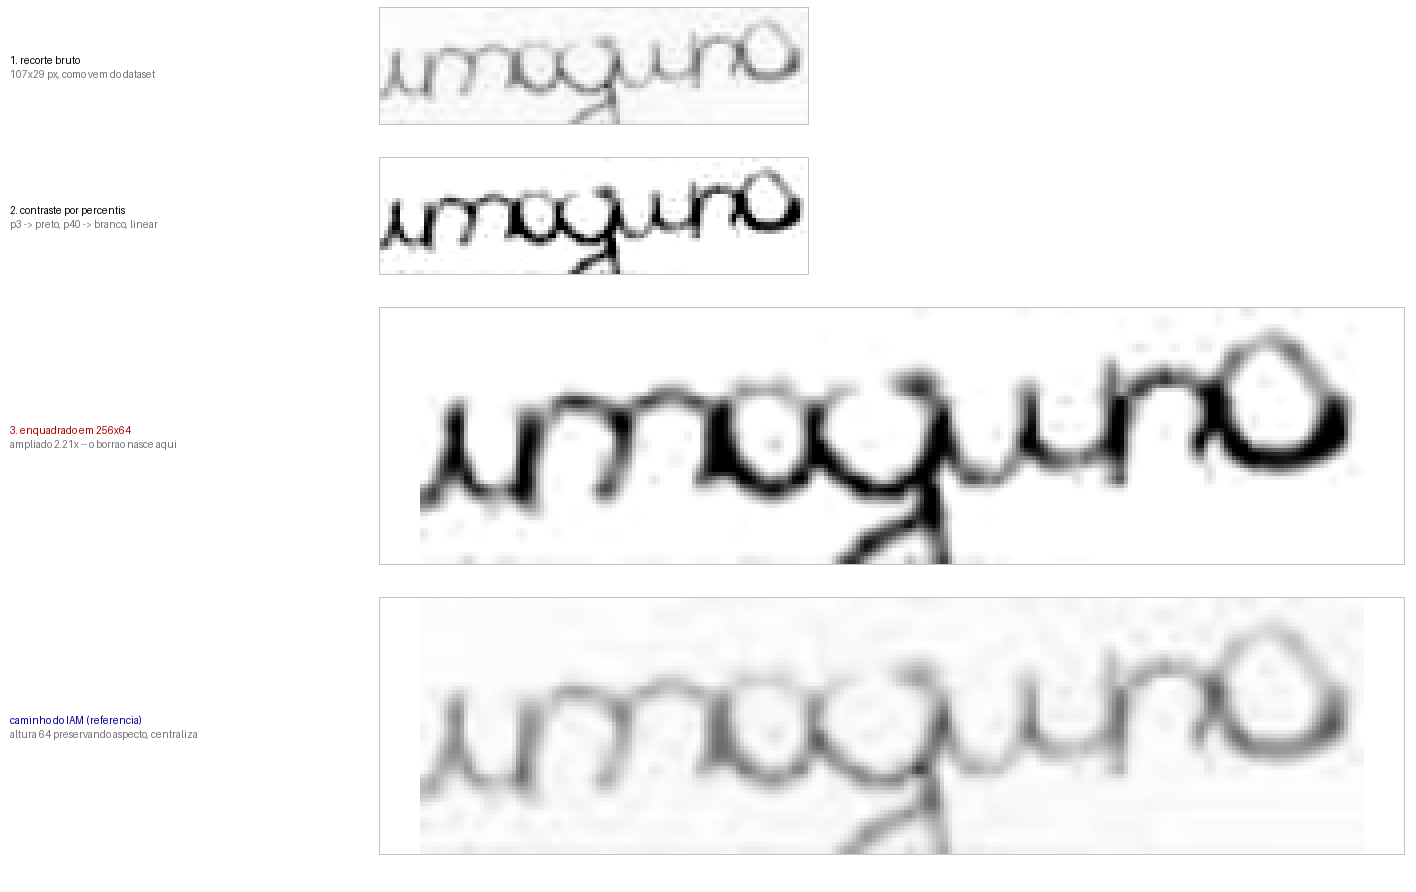
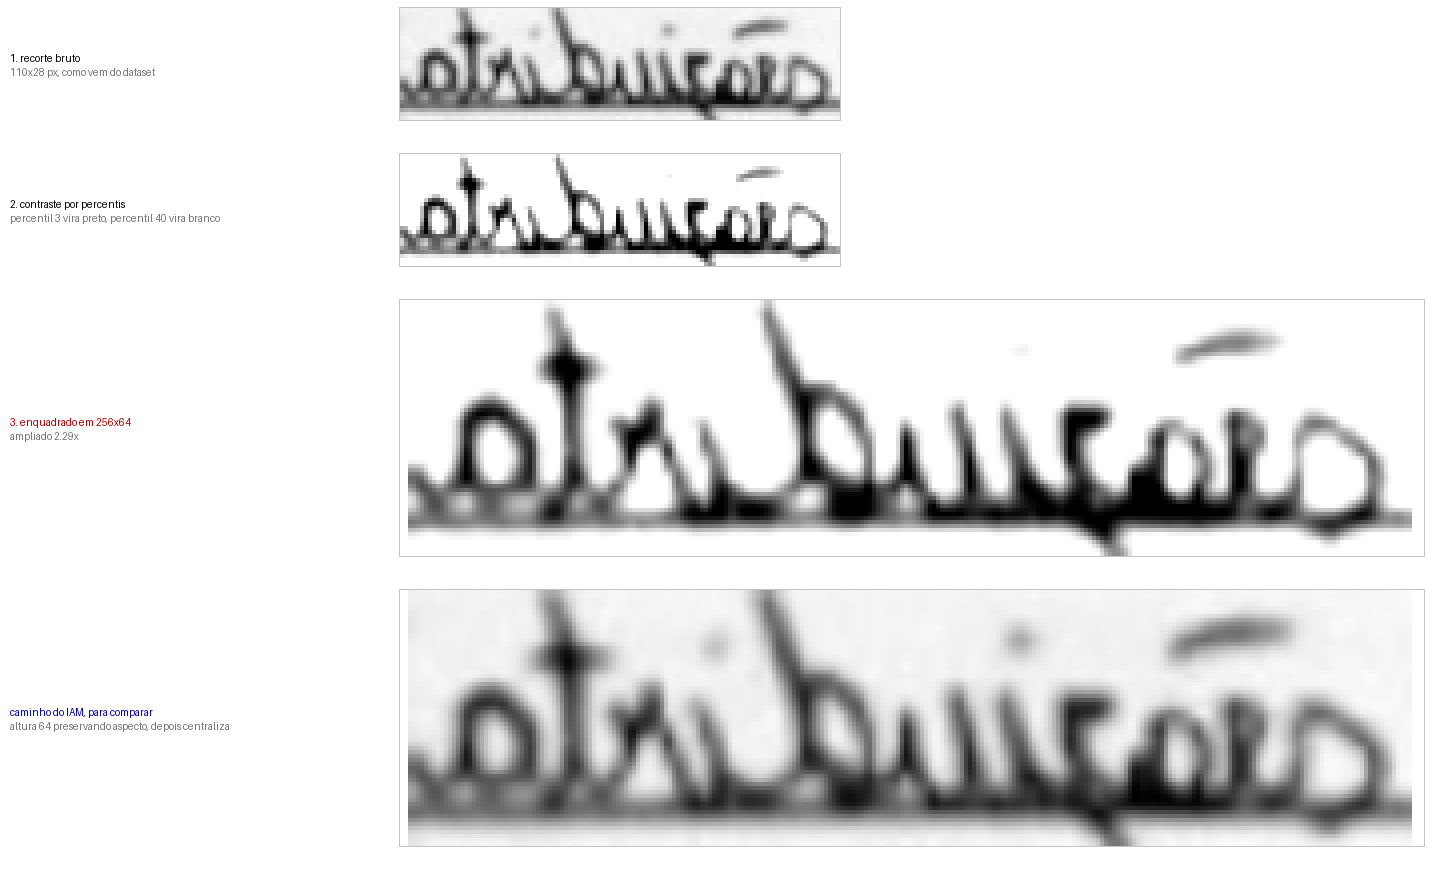
Refaz as figuras com um recorte de fundo escuro
O exemplo anterior tinha fundo em 245, quase branco, entao a normalizacao de
contraste quase nao mudava nada e o histograma saia todo espremido na borda.
O novo recorte tem fundo em 180 e tinta em 44, com 37% dos pixels na faixa
esticada, e contem cedilha e til. Altura 28 px, ampliada 2,29x.

Acrescenta docs/figuras/gerar_figuras.py, que refaz as duas figuras e aceita
outro recorte como argumento.

diff --git a/docs/figuras/gerar_figuras.py b/docs/figuras/gerar_figuras.py
@@ -1,0 +1,132 @@
+"""Refaz as figuras de docs/pre_processamento.md.
+
+    python docs/figuras/gerar_figuras.py [caminho/do/recorte.png]
+
+Sem argumento usa o recorte padrao, escolhido por ter fundo escuro (percentil
+40 em 180, contra 245 de um recorte tipico), o que torna visivel o efeito da
+normalizacao de contraste, e por conter cedilha e til.
+"""
+
+import os
+import sys
+
+import numpy as np
+import matplotlib
+matplotlib.use("Agg")
+import matplotlib.pyplot as plt
+from PIL import Image, ImageOps, ImageDraw
+
+RAIZ = os.path.dirname(os.path.dirname(os.path.dirname(os.path.abspath(__file__))))
+SAIDA = os.path.join(RAIZ, "docs", "figuras")
+PADRAO = os.path.join(RAIZ, "bressay/data/words/7556-012/7556-012-04-02-01.png")
+PALAVRA = "atribuições"
+
+P_TINTA, P_FUNDO = 3, 40
+
+
+def normaliza(bruto):
+    g = np.asarray(bruto.convert("L"), dtype=np.float32)
+    lo, hi = np.percentile(g, P_TINTA), np.percentile(g, P_FUNDO)
+    if hi - lo < 8:
+        return bruto.copy(), g, lo, hi
+    saida = np.clip((g - lo) / (hi - lo), 0, 1) * 255
+    return Image.fromarray(saida.astype(np.uint8)).convert("RGB"), g, lo, hi
+
+
+def fig_etapas(bruto, norm, w0, h0):
+    enq = ImageOps.pad(norm, size=(256, 64), color="white")
+    iam = ImageOps.pad(bruto.resize((max(1, int(w0 * 64 / h0)), 64)),
+                       size=(256, 64), color="white")
+    ESC = 4
+    etapas = [
+        ("1. recorte bruto", bruto, f"{w0}x{h0} px, como vem do dataset", (0, 0, 0)),
+        ("2. contraste por percentis", norm,
+         f"percentil {P_TINTA} vira preto, percentil {P_FUNDO} vira branco", (0, 0, 0)),
+        ("3. enquadrado em 256x64", enq,
+         f"ampliado {64/h0:.2f}x", (170, 0, 0)),
+        ("caminho do IAM, para comparar", iam,
+         "altura 64 preservando aspecto, depois centraliza", (0, 0, 160)),
+    ]
+    COL = 400
+    alturas = [im.height * ESC for _, im, _, _ in etapas]
+    fig = Image.new("RGB", (COL + 256 * ESC + 12, sum(a + 34 for a in alturas) + 12),
+                    (255, 255, 255))
+    d = ImageDraw.Draw(fig)
+    y = 8
+    for (titulo, im, nota, cor), alt in zip(etapas, alturas):
+        d.text((10, y + alt // 2 - 12), titulo, fill=cor)
+        d.text((10, y + alt // 2 + 2), nota, fill=(115, 115, 115))
+        e = im.resize((im.width * ESC, alt), Image.NEAREST)
+        fig.paste(e, (COL, y))
+        d.rectangle([COL - 1, y - 1, COL + e.width, y + alt], outline=(195, 195, 195))
+        y += alt + 34
+    destino = os.path.join(SAIDA, "pipeline_etapas.png")
+    fig.save(destino)
+    print("escrito:", destino)
+
+
+def fig_percentis(g, lo, hi, palavra):
+    out = np.clip((g - lo) / (hi - lo), 0, 1) * 255
+    fig = plt.figure(figsize=(11, 7.2))
+    gs = fig.add_gridspec(3, 2, height_ratios=[1, 1.5, 1], hspace=.55, wspace=.22)
+
+    for col, (dados, titulo) in enumerate(((g, f'antes, "{palavra}"'), (out, "depois"))):
+        ax = fig.add_subplot(gs[0, col])
+        ax.imshow(dados, cmap="gray", vmin=0, vmax=255)
+        ax.axis("off")
+        ax.set_title(titulo, fontsize=10)
+
+    ax = fig.add_subplot(gs[1, :])
+    ax.hist(g.ravel(), bins=64, range=(0, 255), color="#888", edgecolor="none")
+    ax.axvline(lo, color="#c00", lw=2)
+    ax.axvline(hi, color="#06c", lw=2)
+    ax.axvspan(0, lo, color="#c00", alpha=.13)
+    ax.axvspan(hi, 255, color="#06c", alpha=.13)
+    topo = ax.get_ylim()[1]
+    ax.text(lo - 6, topo * .93, f"lo = {lo:.0f}\n(percentil {P_TINTA})",
+            ha="right", va="top", color="#c00", fontsize=9)
+    ax.text(hi + 6, topo * .93, f"hi = {hi:.0f}\n(percentil {P_FUNDO})",
+            ha="left", va="top", color="#06c", fontsize=9)
+    frac = 100 * ((g > lo) & (g < hi)).mean()
+    ax.text((lo + hi) / 2, topo * .5, f"estes {frac:.0f}% sao\nesticados p/ 0-255",
+            ha="center", fontsize=9)
+    ax.set_title("quantos pixels a imagem tem de cada tom de cinza", fontsize=10)
+    ax.set_xlabel("tom de cinza (0 = preto, 255 = branco)")
+    ax.set_ylabel("nº de pixels")
+    ax.set_xlim(0, 255)
+
+    ax = fig.add_subplot(gs[2, :])
+    x = np.arange(256)
+    ax.plot(x, np.clip((x - lo) / (hi - lo), 0, 1) * 255, color="k", lw=2)
+    ax.axvline(lo, color="#c00", lw=1.2, ls="--")
+    ax.axvline(hi, color="#06c", lw=1.2, ls="--")
+    ax.set_title("a regra, tom que entra contra tom que sai", fontsize=10)
+    ax.set_xlabel("entra")
+    ax.set_ylabel("sai")
+    ax.set_xlim(0, 255)
+    ax.set_ylim(-8, 263)
+    ax.text(lo / 2, 200, "tudo aqui\nvira preto", ha="center", color="#c00", fontsize=9)
+    ax.text((hi + 255) / 2, 60, "tudo aqui vira branco", ha="center",
+            color="#06c", fontsize=9)
+
+    destino = os.path.join(SAIDA, "normalizacao_percentis.png")
+    fig.savefig(destino, dpi=110, bbox_inches="tight", facecolor="white")
+    print("escrito:", destino)
+
+
+def main():
+    caminho = sys.argv[1] if len(sys.argv) > 1 else PADRAO
+    palavra = PALAVRA if caminho == PADRAO else os.path.basename(caminho)
+    if not os.path.isfile(caminho):
+        raise SystemExit(f"recorte nao encontrado: {caminho}")
+    bruto = Image.open(caminho).convert("RGB")
+    w0, h0 = bruto.size
+    norm, g, lo, hi = normaliza(bruto)
+    print(f'recorte "{palavra}" {w0}x{h0} | tinta(p{P_TINTA})={lo:.0f} '
+          f'fundo(p{P_FUNDO})={hi:.0f} | ampliacao {64/h0:.2f}x')
+    fig_etapas(bruto, norm, w0, h0)
+    fig_percentis(g, lo, hi, palavra)
+
+
+if __name__ == "__main__":
+    main()
